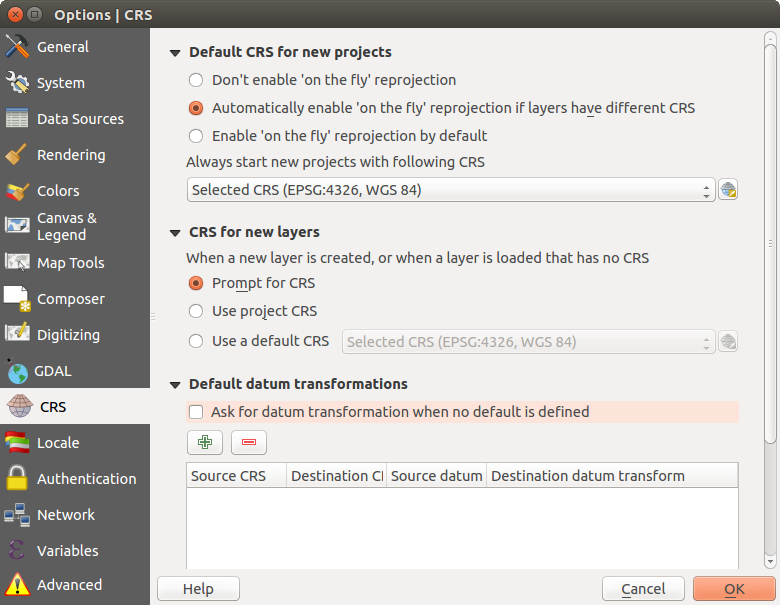
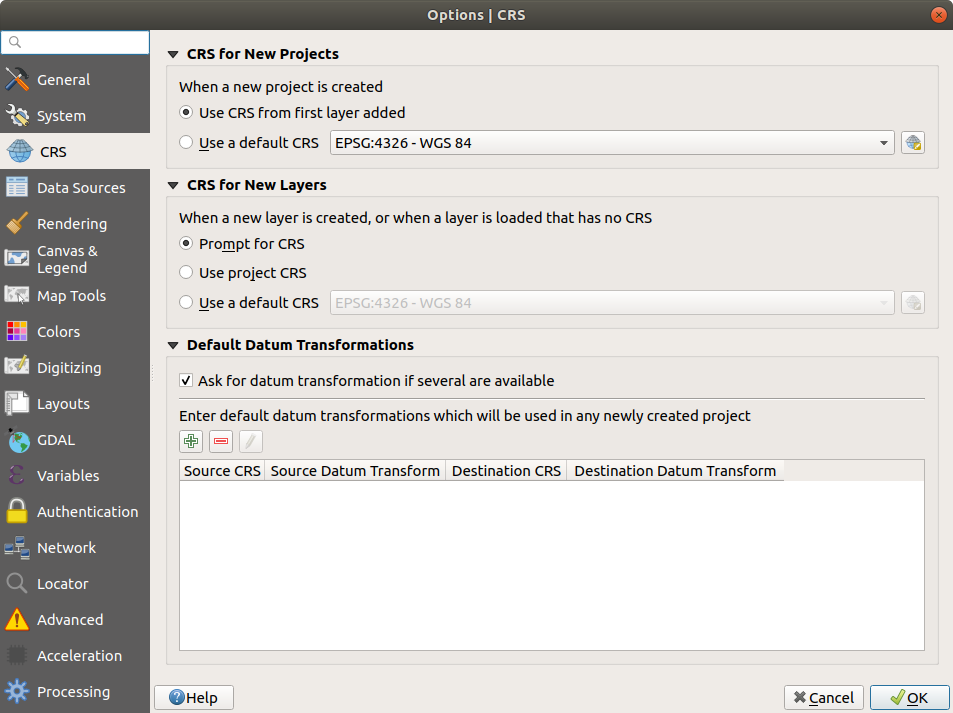
Add details on new project crs and update CRS dialogs screenshots

Changed region(s): [[0.0, 0.0, 1.0, 1.0], [0.3692, 0.7736, 0.8923, 0.8033], [0.9231, 0.2678, 1.0, 0.5058]]

diff --git a/source/docs/user_manual/introduction/qgis_configuration.rst b/source/docs/user_manual/introduction/qgis_configuration.rst
@@ -178,9 +178,18 @@ source code.
 CRS Settings
 ------------
 
-You can select a :guilabel:`Default CRS for new projects` applied each time you
-open a new project. This Coordinate Reference System can then be overridden by
-selected value in :menuselection:`Project --> Project properties --> CRS` tab.
+**Default CRS for new projects**
+
+There is an option to automatically set new project’s CRS:
+
+* |radioButtonOn|:guilabel:`Use CRS from first layer added`: to match the CRS of
+  the first layer loaded into the new project
+* |radioButtonOff|:guilabel:`Use a default CRS`: you can select a different CRS
+  to use for all newly created projects.
+
+This choice will be saved for use in subsequent QGIS sessions and in any case,
+the Coordinate Reference System of the project can still be overridden from
+:menuselection:`Project --> Project properties --> CRS` tab.
 
 **CRS for new layers**
 
